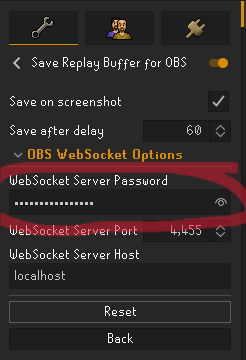
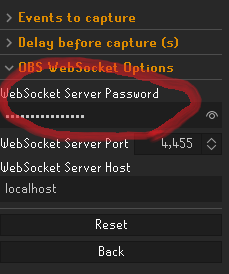
docs: update docs to reflect fine-grained controls

Changed region(s): [[0.0, 0.0292, 1.0, 0.9635], [0.9782, 0.0, 1.0, 0.0876]]

diff --git a/README.md b/README.md
@@ -87,12 +87,13 @@ In RuneLite, open the Replay Buffer plugin settings (click the ⚙ cog icon).
 
 ![Image of Save Replay Buffer plugin settings cog](./docs/img/PluginSettingsCogIndicator.png)
 
-Paste the password you copied from OBS into the plugin.
+Paste the password you copied from OBS into the plugin. 
 
 ![Image of Save Replay Buffer for OBS with previously generated password added in](./docs/img/WebSocketPasswordLocation.png)
 
 
 > Note the plugin will attempt to reconnect whenever the configuration values change, but this may require leaving the input box
+> 
 > Alternatively, have you tried turning it off and on again?
 
 If everything is set up correctly, you’ll see a successful connection in your OBS WebSocket settings.
@@ -103,6 +104,7 @@ If everything is set up correctly, you’ll see a successful connection in your 
 ### 6. Optional: Fine-Tune Replay Timing
 
 You can add a delay before saving the replay to include action happening after the moment a screenshot would be taken in Runelite.
+This can be useful to also capture live reactions to the event, and not having clips that end too abruptly.
 
 ![Image of Save after delay option highlighted](./docs/img/FineTuneDelay.png)
 
@@ -115,10 +117,16 @@ Your clip will include 2 minutes before and 1 minute after the trigger (such as 
 
 A clip is automatically saved when RuneLite takes a screenshot.
 
-Any option in the RuneLite Screenshot plugin that is ticked trigger a clip to save.
+Any option in the RuneLite Screenshot plugin that is ticked triggers a clip to save.
 
 ![Image of Screenshot base plugin options](./docs/img/ScreenshotPluginReferenceSettings.png)
 
+Fine-grained configuration to save clips for only specific events can be done in "Events to capture" section.
+
+![Image of fine-grained configuration options](./docs/img/FineGrainedOptionsExample.png)
+
+It is recommended to either disable `All screenshots` or ensure there is no overlap, 
+otherwise you might try to save buffers multiple times for the same event.
 
 ## Tips and Advanced Guides
 
